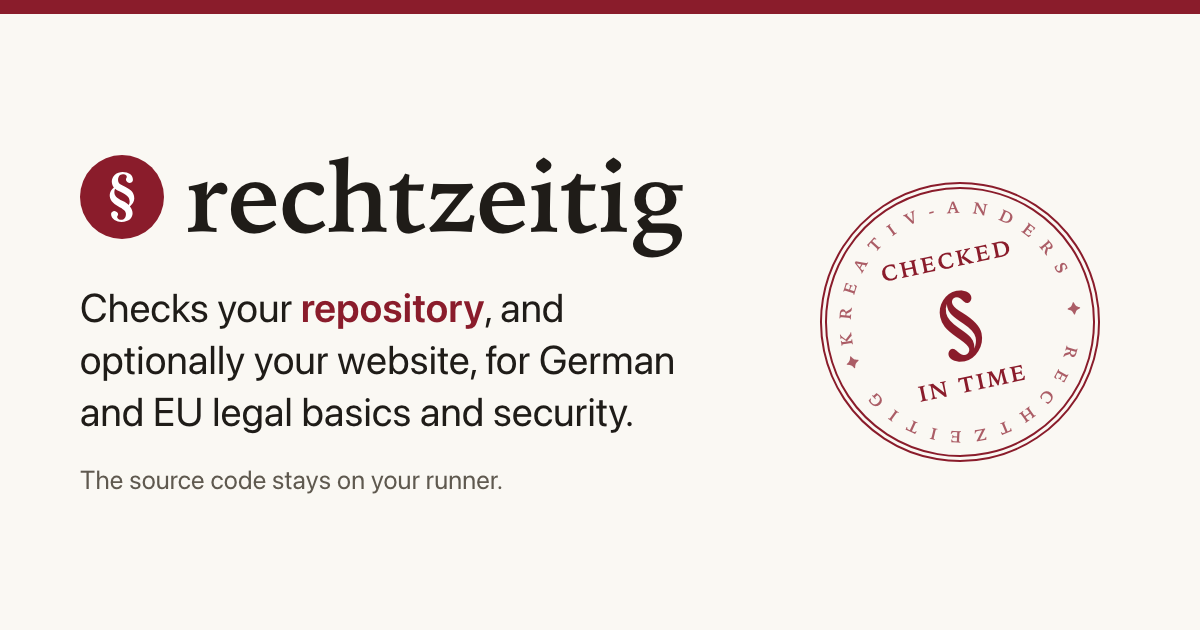
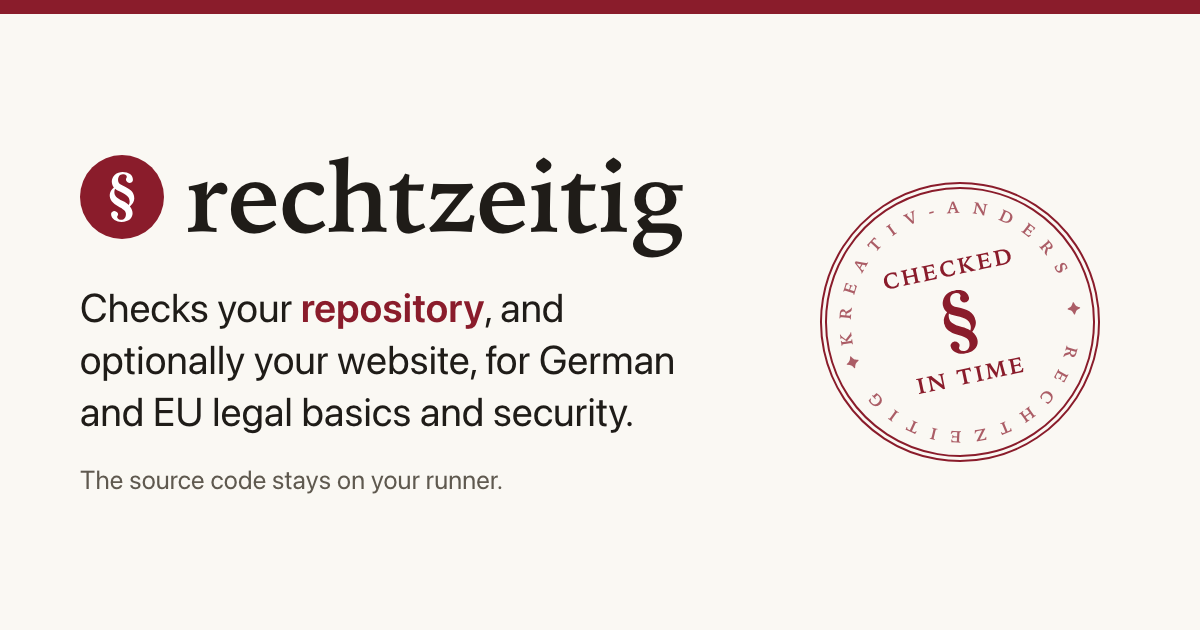
🐛 Site: stamp § as the seal's path, German stamp clear of the rim
The hero stamp on both start pages and in og.png now draws its § with
the same path as the seal instead of a text glyph; it sits on the
stamp's centre (offset 0.02 px). Its lines are a little smaller and
less spaced, and the German one smaller still: "RECHTZEITIG" reached
6.2 units (of 100) into the rim legend, now it keeps 3.5 units clear
(English 5.6). The test also checks the stamp's path.

Changed region(s): [[0.7092, 0.3921, 0.8633, 0.6333]]

diff --git a/dev/og-image.html b/dev/og-image.html
@@ -38,7 +38,7 @@
     transform: rotate(-12deg);
     position: relative;
   }
-  .stamp strong { display: block; font-size: 84px; letter-spacing: 0; line-height: 1; margin: 6px 0; }
+  .stamp .mark { display: block; height: 64px; width: auto; margin: 8px auto; fill: currentColor; }
   .stamp .rim { position: absolute; inset: 0; width: 100%; height: 100%; overflow: visible; }
   .stamp .rim text { fill: currentColor; font: 600 6.2px var(--serif); letter-spacing: 0.08em; opacity: 0.7; }
 </style>
@@ -54,7 +54,7 @@
     <p class="note">The source code stays on your runner.</p>
   </div>
   <div>
-    <div class="stamp"><svg class="rim" viewBox="0 0 100 100"><path id="rim-path" d="M50 50m-41 0a41 41 0 1 1 82 0a41 41 0 1 1-82 0" fill="none"/><text><textPath href="#rim-path" textLength="254" lengthAdjust="spacing">kreativ-anders ✦ rechtzeitig ✦</textPath></text></svg><span>checked<strong>§</strong>in time</span></div>
+    <div class="stamp"><svg class="rim" viewBox="0 0 100 100"><path id="rim-path" d="M50 50m-41 0a41 41 0 1 1 82 0a41 41 0 1 1-82 0" fill="none"/><text><textPath href="#rim-path" textLength="254" lengthAdjust="spacing">kreativ-anders ✦ rechtzeitig ✦</textPath></text></svg><span>checked<svg class="mark" viewBox="11.3 6.5 9.4 19"><path d="M20.03 22.21C20.03 21.3 19.64 20.4 19 19.6C19.85 18.86 20.68 17.85 20.68 16.59C20.68 13.76 18.81 12.84 16.24 11.58C15.18 11.07 14.5 10.66 14.5 9.58C14.5 8.38 15.02 7.3 16.33 7.3C17.53 7.3 17.83 7.86 17.83 8.36C17.83 8.73 17.5 8.75 17.5 9.46C17.5 9.72 17.9 10.64 18.88 10.64C19.41 10.64 20.17 10.13 20.17 9.49C20.17 7.53 18.49 6.5 16.24 6.5C15.14 6.5 14.06 6.84 13.3 7.53C12.54 8.22 12.11 9.28 12.11 10.04C12.11 11 12.43 11.78 12.91 12.38C12.08 13.09 11.32 14.1 11.32 15.28C11.32 17.09 12.24 18.29 14.79 19.71C15.97 20.35 17.5 21.2 17.5 22.38C17.5 23.91 16.75 24.7 15.71 24.7C14.38 24.7 14.15 23.78 14.15 23.62C14.15 23.29 14.52 23.11 14.52 22.51C14.52 22.26 14.01 21.34 13.05 21.34C12.54 21.34 11.83 21.87 11.83 22.47C11.83 24.49 14.08 25.5 15.76 25.5C18.91 25.5 20.03 23.8 20.03 22.21ZM13.35 12.86C13.67 13.16 14.01 13.37 14.33 13.53C17.39 14.93 18.91 15.76 18.91 17.69C18.91 18.22 18.79 18.68 18.52 19.07C17.92 18.49 17.16 17.96 16.31 17.57C13.78 16.36 13.09 15.3 13.09 14.17C13.09 13.69 13.16 13.25 13.35 12.86Z"/></svg>in time</span></div>
   </div>
 </div>
 </body>

diff --git a/docs/de/index.html b/docs/de/index.html
@@ -113,7 +113,7 @@
       </div>
       <p class="hero-note">Kostenlos und Open Source. Es läuft in Ihrer eigenen CI ohne Konto und ohne Secret, und der Code bleibt auf dem Runner.</p>
     </div>
-    <div class="stamp" aria-hidden="true"><svg class="rim" viewBox="0 0 100 100"><path id="rim-path" d="M50 50m-41 0a41 41 0 1 1 82 0a41 41 0 1 1-82 0" fill="none"/><text><textPath href="#rim-path" textLength="254" lengthAdjust="spacing">kreativ-anders ✦ rechtzeitig ✦</textPath></text></svg><span>geprüft<span class="mark">§</span>rechtzeitig</span></div>
+    <div class="stamp" aria-hidden="true"><svg class="rim" viewBox="0 0 100 100"><path id="rim-path" d="M50 50m-41 0a41 41 0 1 1 82 0a41 41 0 1 1-82 0" fill="none"/><text><textPath href="#rim-path" textLength="254" lengthAdjust="spacing">kreativ-anders ✦ rechtzeitig ✦</textPath></text></svg><span>geprüft<svg class="mark" viewBox="11.3 6.5 9.4 19"><path d="M20.03 22.21C20.03 21.3 19.64 20.4 19 19.6C19.85 18.86 20.68 17.85 20.68 16.59C20.68 13.76 18.81 12.84 16.24 11.58C15.18 11.07 14.5 10.66 14.5 9.58C14.5 8.38 15.02 7.3 16.33 7.3C17.53 7.3 17.83 7.86 17.83 8.36C17.83 8.73 17.5 8.75 17.5 9.46C17.5 9.72 17.9 10.64 18.88 10.64C19.41 10.64 20.17 10.13 20.17 9.49C20.17 7.53 18.49 6.5 16.24 6.5C15.14 6.5 14.06 6.84 13.3 7.53C12.54 8.22 12.11 9.28 12.11 10.04C12.11 11 12.43 11.78 12.91 12.38C12.08 13.09 11.32 14.1 11.32 15.28C11.32 17.09 12.24 18.29 14.79 19.71C15.97 20.35 17.5 21.2 17.5 22.38C17.5 23.91 16.75 24.7 15.71 24.7C14.38 24.7 14.15 23.78 14.15 23.62C14.15 23.29 14.52 23.11 14.52 22.51C14.52 22.26 14.01 21.34 13.05 21.34C12.54 21.34 11.83 21.87 11.83 22.47C11.83 24.49 14.08 25.5 15.76 25.5C18.91 25.5 20.03 23.8 20.03 22.21ZM13.35 12.86C13.67 13.16 14.01 13.37 14.33 13.53C17.39 14.93 18.91 15.76 18.91 17.69C18.91 18.22 18.79 18.68 18.52 19.07C17.92 18.49 17.16 17.96 16.31 17.57C13.78 16.36 13.09 15.3 13.09 14.17C13.09 13.69 13.16 13.25 13.35 12.86Z"/></svg>rechtzeitig</span></div>
   </div>
 
   <section id="example" aria-labelledby="how">

diff --git a/docs/index.html b/docs/index.html
@@ -123,7 +123,7 @@
       </div>
       <p class="hero-note">Free and open source. It runs in your own CI with no account and no secret, and your code stays on the runner.</p>
     </div>
-    <div class="stamp" aria-hidden="true"><svg class="rim" viewBox="0 0 100 100"><path id="rim-path" d="M50 50m-41 0a41 41 0 1 1 82 0a41 41 0 1 1-82 0" fill="none"/><text><textPath href="#rim-path" textLength="254" lengthAdjust="spacing">kreativ-anders ✦ rechtzeitig ✦</textPath></text></svg><span>checked<span class="mark">§</span>in time</span></div>
+    <div class="stamp" aria-hidden="true"><svg class="rim" viewBox="0 0 100 100"><path id="rim-path" d="M50 50m-41 0a41 41 0 1 1 82 0a41 41 0 1 1-82 0" fill="none"/><text><textPath href="#rim-path" textLength="254" lengthAdjust="spacing">kreativ-anders ✦ rechtzeitig ✦</textPath></text></svg><span>checked<svg class="mark" viewBox="11.3 6.5 9.4 19"><path d="M20.03 22.21C20.03 21.3 19.64 20.4 19 19.6C19.85 18.86 20.68 17.85 20.68 16.59C20.68 13.76 18.81 12.84 16.24 11.58C15.18 11.07 14.5 10.66 14.5 9.58C14.5 8.38 15.02 7.3 16.33 7.3C17.53 7.3 17.83 7.86 17.83 8.36C17.83 8.73 17.5 8.75 17.5 9.46C17.5 9.72 17.9 10.64 18.88 10.64C19.41 10.64 20.17 10.13 20.17 9.49C20.17 7.53 18.49 6.5 16.24 6.5C15.14 6.5 14.06 6.84 13.3 7.53C12.54 8.22 12.11 9.28 12.11 10.04C12.11 11 12.43 11.78 12.91 12.38C12.08 13.09 11.32 14.1 11.32 15.28C11.32 17.09 12.24 18.29 14.79 19.71C15.97 20.35 17.5 21.2 17.5 22.38C17.5 23.91 16.75 24.7 15.71 24.7C14.38 24.7 14.15 23.78 14.15 23.62C14.15 23.29 14.52 23.11 14.52 22.51C14.52 22.26 14.01 21.34 13.05 21.34C12.54 21.34 11.83 21.87 11.83 22.47C11.83 24.49 14.08 25.5 15.76 25.5C18.91 25.5 20.03 23.8 20.03 22.21ZM13.35 12.86C13.67 13.16 14.01 13.37 14.33 13.53C17.39 14.93 18.91 15.76 18.91 17.69C18.91 18.22 18.79 18.68 18.52 19.07C17.92 18.49 17.16 17.96 16.31 17.57C13.78 16.36 13.09 15.3 13.09 14.17C13.09 13.69 13.16 13.25 13.35 12.86Z"/></svg>in time</span></div>
   </div>
 
   <section id="example" aria-labelledby="how">

diff --git a/docs/style.css b/docs/style.css
@@ -226,13 +226,15 @@ footer a:hover { color: var(--ink); }
   place-items: center;
   text-align: center;
   color: var(--seal);
-  font: 600 0.78rem/1.3 var(--serif);
-  letter-spacing: 0.12em;
+  font: 600 0.72rem/1.2 var(--serif);
+  letter-spacing: 0.08em;
   text-transform: uppercase;
   transform: rotate(-12deg);
   transition: transform 0.5s cubic-bezier(.3,1.6,.5,1);
 }
-.stamp .mark { display: block; font-size: 2.4rem; letter-spacing: 0; line-height: 1; margin: 0.15rem 0; }
+.stamp .mark { display: block; height: 1.6rem; width: auto; margin: 0.25rem auto; fill: currentColor; }
+/* The German lines are longer: "RECHTZEITIG" would reach the rim. */
+:lang(de) > .stamp { font-size: 0.66rem; letter-spacing: 0.02em; }
 .stamp:hover { transform: rotate(4deg) scale(1.05); }
 /* The seal's rim carries the maker's name, like the legend around an official seal */
 .stamp { position: relative; }

diff --git a/src/site.test.ts b/src/site.test.ts
@@ -60,4 +60,6 @@ test("every page's header seal is the one in index.html, drawn as a path without
   assert.ok(first?.includes("<path ") && !first.includes("<text"), "index.html: the seal is a path");
   for (const f of pages) assert.equal(seal(f), first, f);
   assert.ok(!readFileSync(new URL("favicon.svg", DOCS), "utf8").includes("<text"), "favicon.svg has no <text>");
+  const path = first!.match(/<path d="[^"]+"\/>/)![0];
+  for (const f of ["index.html", "de/index.html"]) assert.ok(read(f).match(/<svg class="mark"[^>]*>(.*?)<\/svg>/)?.[1] === path, `${f}: the stamp's § is the seal's path`);
 });
